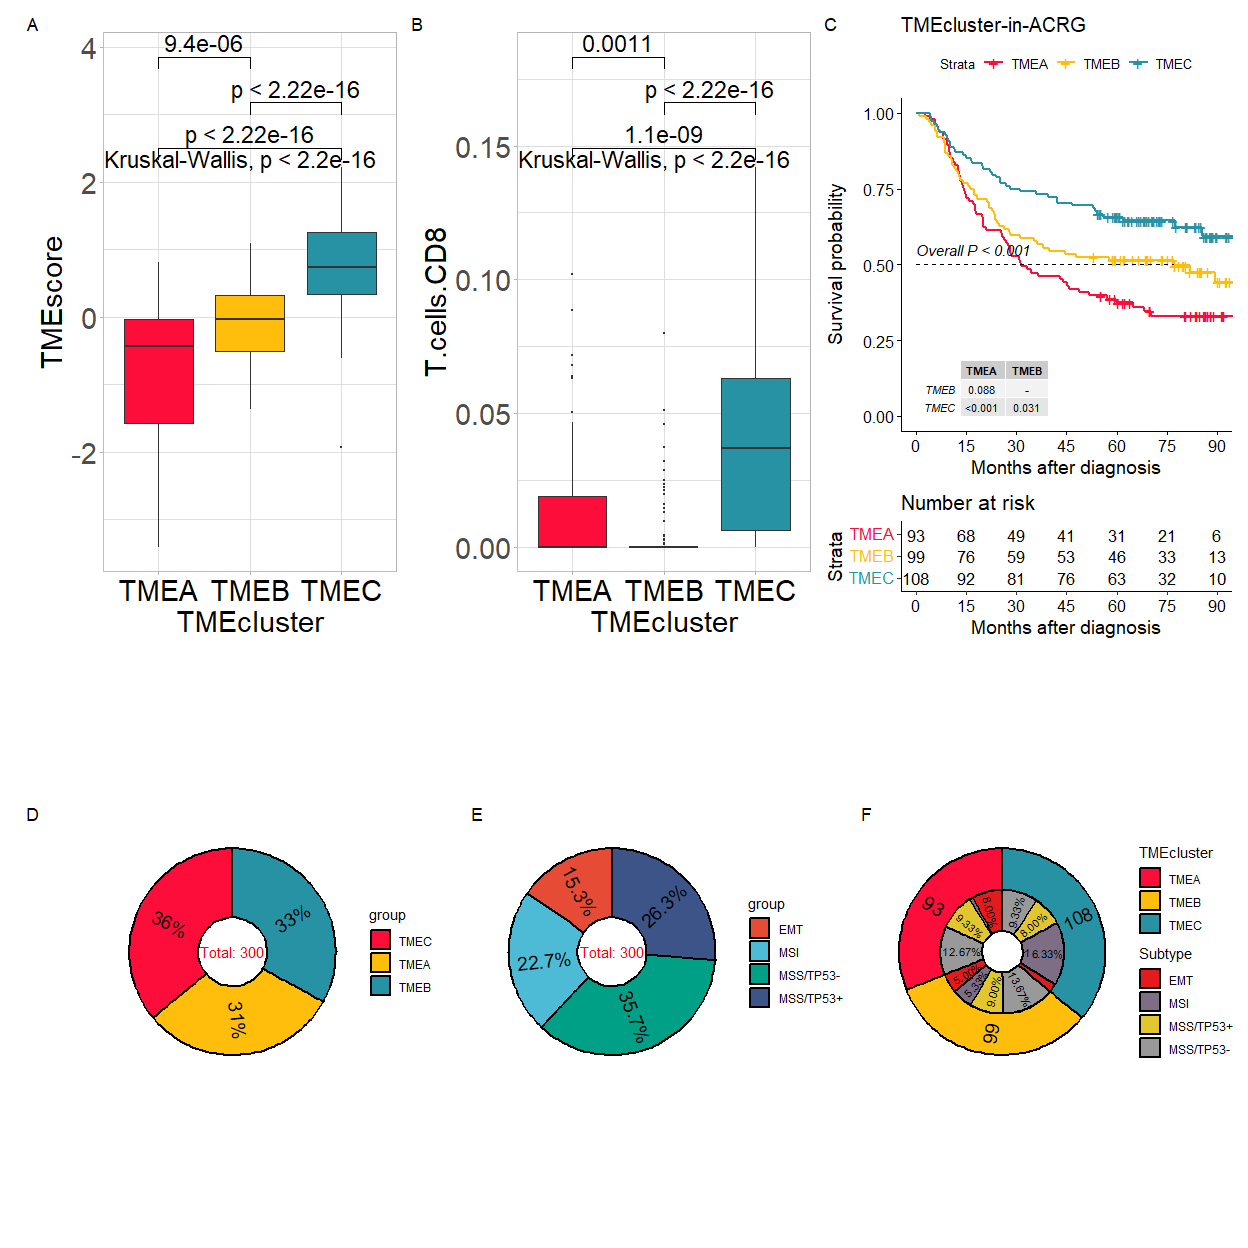
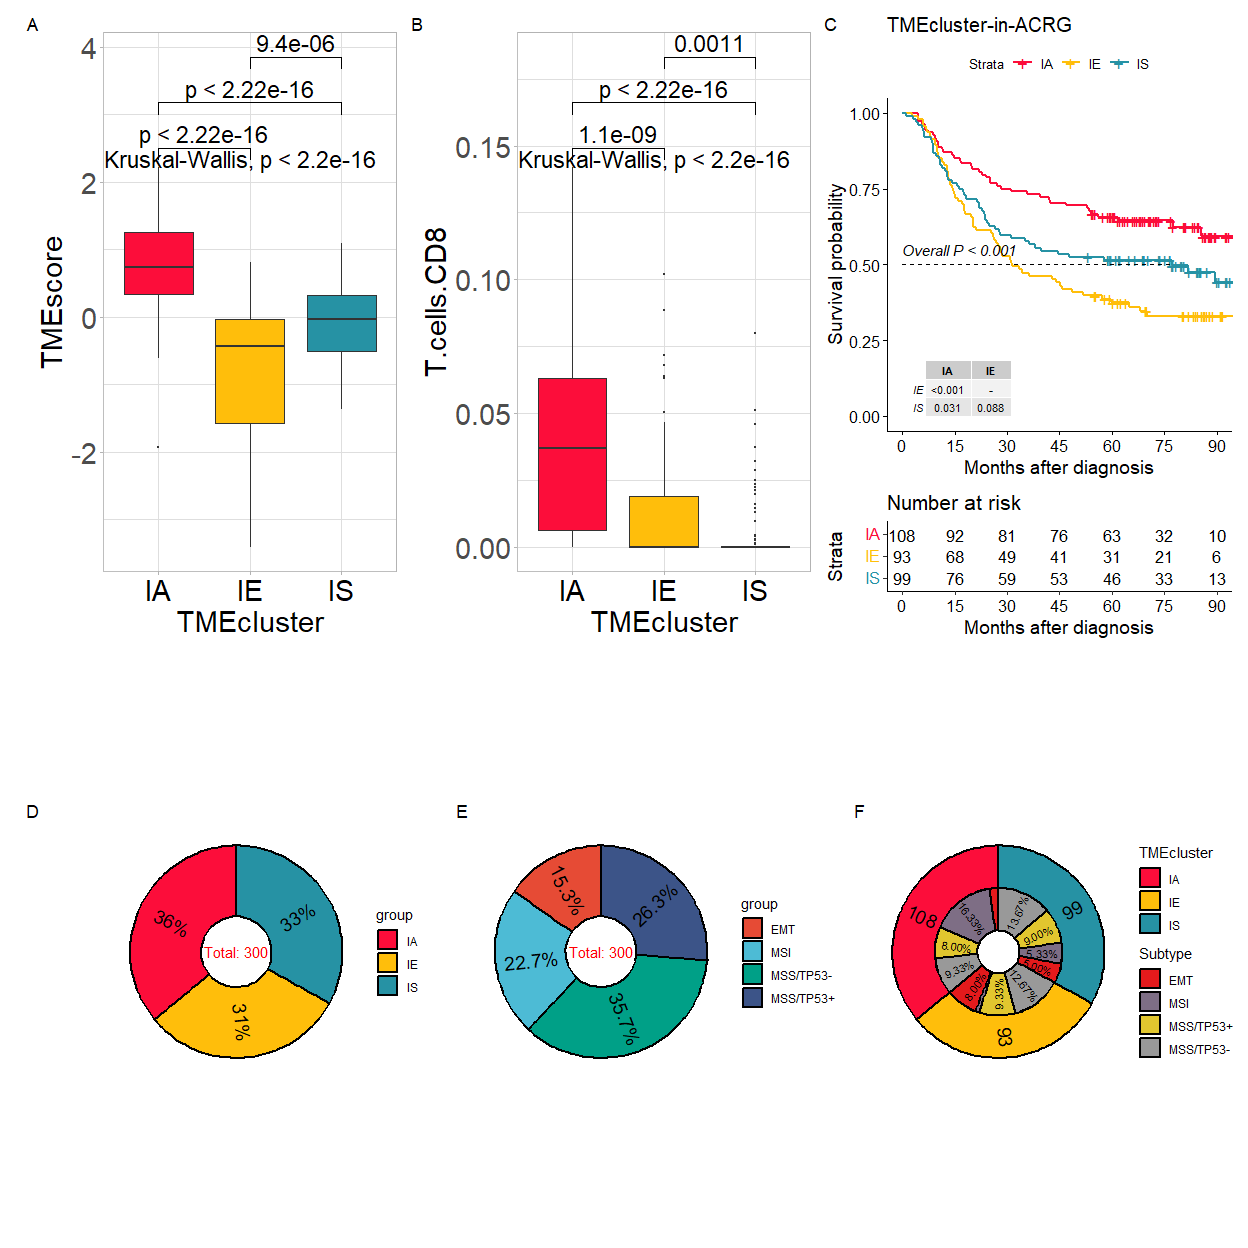
update README

diff --git a/README.md b/README.md
@@ -76,7 +76,7 @@ res<-tme_classifier(eset = t(eset_example1), method = "ensemble", scale = T)
 #> Step-3: Predicting TME phenotypes...
 #> >>>-- Scaling data...
 #> >>>--- Ensemble Model was used to predict TME phenotypes...
-#> [15:02:55] WARNING: amalgamation/../src/learner.cc:1040: 
+#> [15:37:40] WARNING: amalgamation/../src/learner.cc:1040: 
 #>   If you are loading a serialized model (like pickle in Python, RDS in R) generated by
 #>   older XGBoost, please export the model by calling `Booster.save_model` from that version
 #>   first, then load it back in current version. See:
@@ -85,21 +85,21 @@ res<-tme_classifier(eset = t(eset_example1), method = "ensemble", scale = T)
 #> 
 #>   for more details about differences between saving model and serializing.
 #> 
-#> [15:02:55] WARNING: amalgamation/../src/learner.cc:749: Found JSON model saved before XGBoost 1.6, please save the model using current version again. The support for old JSON model will be discontinued in XGBoost 2.3.
+#> [15:37:40] WARNING: amalgamation/../src/learner.cc:749: Found JSON model saved before XGBoost 1.6, please save the model using current version again. The support for old JSON model will be discontinued in XGBoost 2.3.
 #> 
 #> >>>--- DONE!
 head(res)
-#>           ID       TMEA       TMEB       TMEC TMEcluster
-#> 1 GSM1523727 0.14378383 0.09860092 0.75761525       TMEC
-#> 2 GSM1523728 0.00769956 0.10048409 0.89181635       TMEC
-#> 3 GSM1523729 0.86870675 0.10316410 0.02812915       TMEA
-#> 4 GSM1523744 0.04996065 0.06216853 0.88787082       TMEC
-#> 5 GSM1523745 0.05508487 0.81613011 0.12878502       TMEB
-#> 6 GSM1523746 0.56659350 0.38249992 0.05090658       TMEA
+#>           ID         IE         IS         IA TMEcluster
+#> 1 GSM1523727 0.14378383 0.09860092 0.75761525         IA
+#> 2 GSM1523728 0.00769956 0.10048409 0.89181635         IA
+#> 3 GSM1523729 0.86870675 0.10316410 0.02812915         IE
+#> 4 GSM1523744 0.04996065 0.06216853 0.88787082         IA
+#> 5 GSM1523745 0.05508487 0.81613011 0.12878502         IS
+#> 6 GSM1523746 0.56659350 0.38249992 0.05090658         IE
 table(res$TMEcluster)
 #> 
-#> TMEA TMEB TMEC 
-#>   93   99  108
+#>  IA  IE  IS 
+#> 108  93  99
 ```
 
 ### 4.Visualization
@@ -119,12 +119,12 @@ Combining TMEcluster data and phenotype data.
 data("pdata_example")
 input<-inner_join(res, pdata_example, by = "ID")
 input[1:5, 1:8]
-#>           ID       TMEA       TMEB       TMEC TMEcluster ProjectID  Technology
-#> 1 GSM1523727 0.14378383 0.09860092 0.75761525       TMEC  GSE62254 Affymetrix 
-#> 2 GSM1523728 0.00769956 0.10048409 0.89181635       TMEC  GSE62254 Affymetrix 
-#> 3 GSM1523729 0.86870675 0.10316410 0.02812915       TMEA  GSE62254 Affymetrix 
-#> 4 GSM1523744 0.04996065 0.06216853 0.88787082       TMEC  GSE62254 Affymetrix 
-#> 5 GSM1523745 0.05508487 0.81613011 0.12878502       TMEB  GSE62254 Affymetrix 
+#>           ID         IE         IS         IA TMEcluster ProjectID  Technology
+#> 1 GSM1523727 0.14378383 0.09860092 0.75761525         IA  GSE62254 Affymetrix 
+#> 2 GSM1523728 0.00769956 0.10048409 0.89181635         IA  GSE62254 Affymetrix 
+#> 3 GSM1523729 0.86870675 0.10316410 0.02812915         IE  GSE62254 Affymetrix 
+#> 4 GSM1523744 0.04996065 0.06216853 0.88787082         IA  GSE62254 Affymetrix 
+#> 5 GSM1523745 0.05508487 0.81613011 0.12878502         IS  GSE62254 Affymetrix 
 #>         platform
 #> 1 HG-U133_Plus_2
 #> 2 HG-U133_Plus_2
@@ -141,9 +141,9 @@ p1<-sig_box(data = input, signature = "TMEscore", variable = "TMEcluster", cols 
 #> # A tibble: 3 × 8
 #>   .y.       group1 group2        p    p.adj p.format p.signif method  
 #>   <chr>     <chr>  <chr>     <dbl>    <dbl> <chr>    <chr>    <chr>   
-#> 1 signature TMEC   TMEA   3.66e-24 1.10e-23 < 2e-16  ****     Wilcoxon
-#> 2 signature TMEC   TMEB   1.18e-17 2.40e-17 < 2e-16  ****     Wilcoxon
-#> 3 signature TMEA   TMEB   9.44e- 6 9.40e- 6 9.4e-06  ****     Wilcoxon
+#> 1 signature IA     IE     3.66e-24 1.10e-23 < 2e-16  ****     Wilcoxon
+#> 2 signature IA     IS     1.18e-17 2.40e-17 < 2e-16  ****     Wilcoxon
+#> 3 signature IE     IS     9.44e- 6 9.40e- 6 9.4e-06  ****     Wilcoxon
 #> Warning: Removed 1 rows containing non-finite values (`stat_boxplot()`).
 #> Warning: Removed 1 rows containing non-finite values (`stat_signif()`).
 #> Warning: Removed 1 rows containing non-finite values (`stat_compare_means()`).
@@ -151,9 +151,9 @@ p2<-sig_box(data = input, signature = "T.cells.CD8", variable = "TMEcluster", co
 #> # A tibble: 3 × 8
 #>   .y.       group1 group2        p    p.adj p.format p.signif method  
 #>   <chr>     <chr>  <chr>     <dbl>    <dbl> <chr>    <chr>    <chr>   
-#> 1 signature TMEC   TMEA   1.06e- 9 2.10e- 9 1.1e-09  ****     Wilcoxon
-#> 2 signature TMEC   TMEB   7.54e-18 2.3 e-17 < 2e-16  ****     Wilcoxon
-#> 3 signature TMEA   TMEB   1.09e- 3 1.1 e- 3 0.0011   **       Wilcoxon
+#> 1 signature IA     IE     1.06e- 9 2.10e- 9 1.1e-09  ****     Wilcoxon
+#> 2 signature IA     IS     7.54e-18 2.3 e-17 < 2e-16  ****     Wilcoxon
+#> 3 signature IE     IS     1.09e- 3 1.1 e- 3 0.0011   **       Wilcoxon
 ```
 
 KM-plot
@@ -167,8 +167,8 @@ p3<-surv_cluster(input_pdata     = input,
                  project         = "ACRG",
                  cols            = c('#fc0d3a','#ffbe0b','#2692a4'),
                  save_path       = paste0("./man/figures"))
-#> TMEA TMEB TMEC 
-#>   93   99  108
+#>  IA  IE  IS 
+#> 108  93  99
 ```
 
 Distribution of `TMEcluster` and molecular subtypes
